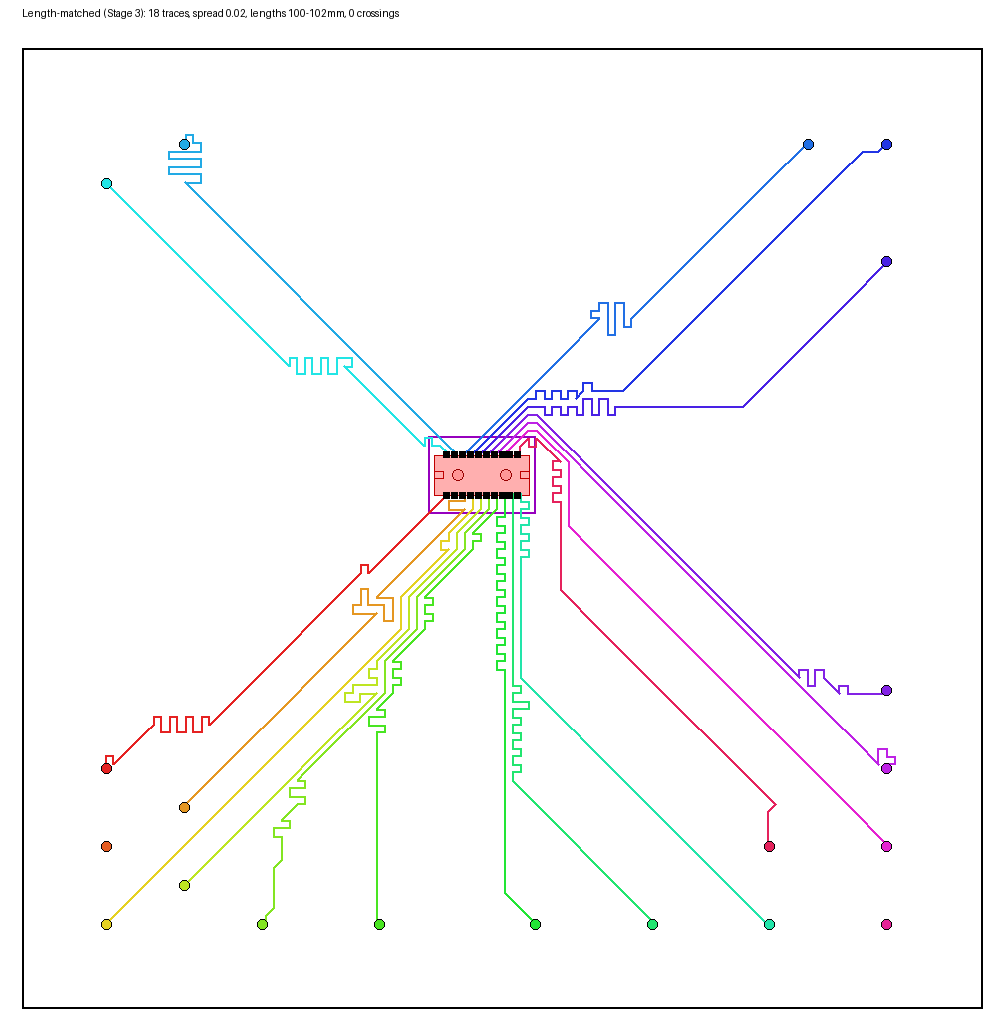
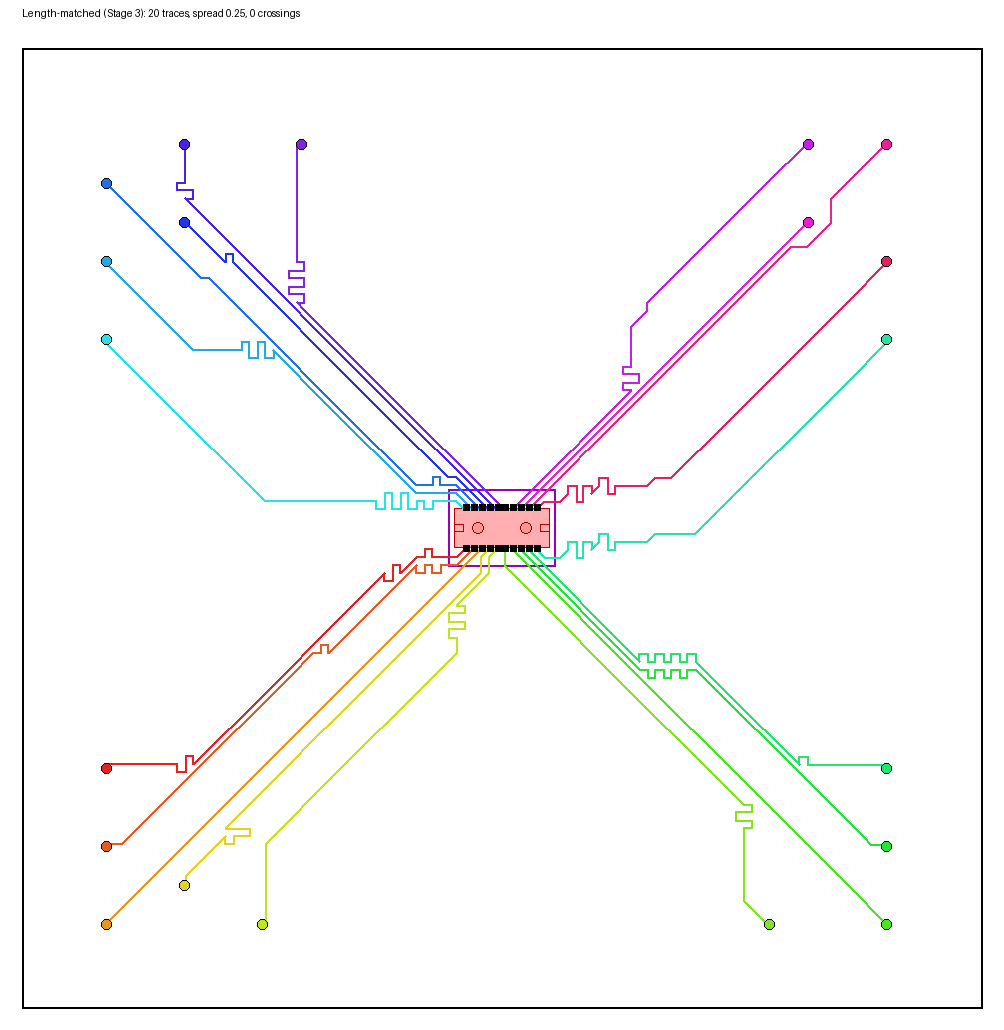
Add test-point (pad) clearance constraints + no self-encirclement
- Pad keep-out: each test point reserves a small disk (TP_CLEARANCE_CELLS) that only
  its OWN net may enter, threaded through the router via a tp_owner grid — so every pad
  stays clear of all other traces' bodies and other pads (measured min pad-to-other-trace
  ~2.97mm vs the ~1.3mm trace pitch; tunable). Start/escape cells are exempt.
- No self-encirclement: the Stage-3 meander refuses bumps within a few cells of either
  endpoint, so a trace never surrounds its own pad with its own body.
- validate_routing_constraints now reports tp_to_trace_min.
- Verified: 20-trace planar routing still 0 crossings, 0 fails, pad clearance 2.97mm.
- Test test_pad_keepout_from_other_traces (14 total); figures + ROUTING.md updated.

diff --git a/envs/routing.py b/envs/routing.py
@@ -269,11 +269,13 @@ def _diag_key(r, c, nr, nc):
 
 
 def _astar_cost(blocked, cell_cost, diag_present, diag_hist, rows, cols, start, end,
-                present_penalty):
+                present_penalty, tp_owner=None, net_id=-1):
     """Octilinear A* on a (row, col) grid. `blocked` hard-blocks cells; `cell_cost`
     adds per-cell congestion; a diagonal move additionally pays for crossing the
-    complementary diagonal of its unit square (discouraging X-crossings). Uses an
-    octile heuristic. Returns a list of (row, col) cells, or None."""
+    complementary diagonal of its unit square (discouraging X-crossings). If
+    `tp_owner` is given, a cell inside another net's test-point keep-out is blocked
+    — a net may enter only its own pad's keep-out. Octile heuristic; returns cells
+    or None."""
     g = {start: 0.0}
     came = {}
     pq = [(0.0, start)]
@@ -295,6 +297,8 @@ def _astar_cost(blocked, cell_cost, diag_present, diag_hist, rows, cols, start, 
             nr, nc = r + dr, c + dc
             if not (0 <= nr < rows and 0 <= nc < cols) or blocked[nr, nc] or (nr, nc) in seen:
                 continue
+            if tp_owner is not None and tp_owner[nr, nc] >= 0 and tp_owner[nr, nc] != net_id:
+                continue                       # keep clear of other nets' test pads
             if dr and dc:
                 if blocked[r, nc] and blocked[nr, c]:
                     continue                       # don't cut the corner between obstacles
@@ -319,7 +323,7 @@ def _astar_cost(blocked, cell_cost, diag_present, diag_hist, rows, cols, start, 
 # ------------------------------------------------------------------
 
 def _negotiate(blocked, rows, cols, cells, endpoints, order,
-               max_iters, present_penalty, history_inc):
+               max_iters, present_penalty, history_inc, tp_owner=None):
     """One negotiated rip-up-and-reroute run, processing nets in `order`.
 
     Nets may share cells (and complementary diagonals) provisionally at a penalty;
@@ -344,7 +348,7 @@ def _negotiate(blocked, rows, cols, cells, endpoints, order,
                     diag_present[key] -= 1
             cost = history + present_penalty * present
             p = _astar_cost(blocked, cost, diag_present, diag_hist, rows, cols,
-                            cells[i][0], cells[i][1], present_penalty)
+                            cells[i][0], cells[i][1], present_penalty, tp_owner, i)
             routes[i] = p
             net_diags[i] = []
             if p:
@@ -483,6 +487,26 @@ def route_all_traces(
         endpoints.add(s)
         endpoints.add(e)
 
+    # Test-point keep-out: each pad reserves a small disk that OTHER nets may not
+    # enter (endpoint-to-other-trace-body and endpoint-to-endpoint clearance); a net
+    # may enter only its own pad's disk. Pads are >=13mm apart so disks never
+    # overlap. Start/escape cells are exempt so a trace's escape is never boxed in.
+    tp_owner = -np.ones((rows, cols), dtype=np.int32)
+    rad = TP_CLEARANCE_CELLS
+    for i, (_s, (er, ec)) in enumerate(cells):
+        for dr in range(-rad, rad + 1):
+            for dc in range(-rad, rad + 1):
+                if dr * dr + dc * dc <= rad * rad:
+                    rr, cc = er + dr, ec + dc
+                    if 0 <= rr < rows and 0 <= cc < cols:
+                        tp_owner[rr, cc] = i
+    for (sr, sc), _e in cells:
+        step_dir = 1 if sr > crow else -1
+        for j in range(6):
+            rr = sr + step_dir * j
+            if 0 <= rr < rows:
+                tp_owner[rr, sc] = -1
+
     # Multi-start: informed orders first, then deterministic random restarts. Each
     # run is negotiated, then any residual crossing is removed (planar guarantee);
     # keep the routing with the fewest dropped nets, early-exit on a full routing.
@@ -497,7 +521,7 @@ def route_all_traces(
     for k in range(max(1, n_starts)):
         order = informed[k] if k < len(informed) else list(rng.permutation(n))
         routes = _negotiate(blocked, rows, cols, cells, endpoints, order,
-                            max_iters, present_penalty, history_inc)
+                            max_iters, present_penalty, history_inc, tp_owner)
         routes = _remove_crossings(routes, cells, rows, cols, grid)
         fails = sum(1 for rt in routes if rt is None)
         if best_fails is None or fails < best_fails:
@@ -579,12 +603,20 @@ def equalize_lengths(board, paths_world, passes=24, tol=1.0):
                 break
             new = [p[0]]
             progressed = False
+            endpt, startpt = p[-1], p[0]
+            keep = TP_CLEARANCE_CELLS + 1        # clean approach; never wrap a pad
             for k in range(len(p) - 1):
                 A, N = p[k], p[k + 1]
                 dr, dc = N[0] - A[0], N[1] - A[1]
-                # Insert a bump only while we still need length (stop at target —
-                # each bump adds exactly 2 cells, so we never overshoot by >1 bump).
-                if added_total < need - tol and (dr == 0) != (dc == 0):
+                near_end = (max(abs(A[0] - endpt[0]), abs(A[1] - endpt[1])) <= keep or
+                            max(abs(N[0] - endpt[0]), abs(N[1] - endpt[1])) <= keep or
+                            max(abs(A[0] - startpt[0]), abs(A[1] - startpt[1])) <= keep or
+                            max(abs(N[0] - startpt[0]), abs(N[1] - startpt[1])) <= keep)
+                # Insert a bump only while we still need length (stop at target — each
+                # bump adds exactly 2 cells, so we never overshoot by >1 bump) and
+                # never within `keep` cells of an endpoint, so a trace never
+                # surrounds its own pad (or its start) with its own body.
+                if added_total < need - tol and (dr == 0) != (dc == 0) and not near_end:
                     perps = [(1, 0), (-1, 0)] if dr == 0 else [(0, 1), (0, -1)]
                     for pr, pc in perps:
                         B = (A[0] + pr, A[1] + pc)
@@ -711,7 +743,22 @@ def validate_routing_constraints(
                                    f"Traces {vi[a]},{vi[b]}: edge dist {mee:.3f}mm"))
 
     crossings = count_crossings(paths)
+
+    # Test-point (pad) to other-trace-body clearance: each pad should stay clear of
+    # every trace except its own (the pad keep-out the router enforces).
+    tp2trace_min = float('inf')
+    for i, pi in enumerate(paths):
+        if not pi:
+            continue
+        tp = np.asarray(pi[-1])
+        for j, pj in enumerate(paths):
+            if pj is None or j == i:
+                continue
+            arr = np.asarray(pj)
+            tp2trace_min = min(tp2trace_min,
+                               float(np.hypot(arr[:, 0] - tp[0], arr[:, 1] - tp[1]).min()))
+
     return {"violations": violations, "trace_to_trace_min": t2t_min,
             "trace_to_edge_min": t2e_min, "trace_to_obstacle_min": t2o_min,
-            "crossings": crossings,
+            "crossings": crossings, "tp_to_trace_min": tp2trace_min,
             "all_valid": len(violations) == 0 and crossings == 0}

diff --git a/test_pcb.py b/test_pcb.py
@@ -146,6 +146,28 @@ def test_training_env_wrapper_chain():
     assert "reward_components" in info
 
 
+def test_pad_keepout_from_other_traces():
+    """Each test pad keeps a keep-out clear of every OTHER trace's body (endpoint-
+    to-other-trace-body clearance), well beyond the 1-cell trace-to-trace minimum."""
+    from envs.routing import validate_routing_constraints, CELL_SIZE
+    b = load_te_example(num_traces=16, seed=1)
+    c, rc = generate_candidate_grid(b, 6.5); c = c[:rc]
+    ccx = b.connector_x + b.connector_w / 2; ccy = b.connector_y + b.connector_h / 2
+    chosen = []
+    for idx in np.argsort(-np.hypot(c[:, 0] - ccx, c[:, 1] - ccy)):
+        if len(chosen) >= 16: break
+        if check_tp_spacing(chosen, *c[idx]): chosen.append(tuple(c[idx]))
+    tps = sorted(chosen, key=lambda p: np.arctan2(p[1] - ccy, p[0] - ccx))
+    pins = sorted(range(16), key=lambda i: np.arctan2(b.traces[i].start_y - ccy,
+                                                      b.traces[i].start_x - ccx))
+    placed = [None] * 16
+    for k, i in enumerate(pins):
+        placed[i] = tps[k]
+    paths, _, _ = route_all_traces(b, placed)
+    v = validate_routing_constraints(b, paths)
+    assert v["tp_to_trace_min"] >= 1.5 * CELL_SIZE   # pad keep-out (> 1 cell)
+
+
 def test_length_matching_is_crossing_safe_and_equalizes():
     """Stage 3 (equalize_lengths) meanders shorter traces toward the longest
     without ever introducing a crossing, and does not worsen length spread."""

diff --git a/ROUTING.md b/ROUTING.md
@@ -105,6 +105,15 @@ job; the router guarantees a legal planar result or drops the offending nets. (4
 is ~25 % shorter than pure-rectilinear; the remaining length is recovered by
 placement quality, not by letting traces cross.)
 
+### 2.6 Endpoint (pad) clearance & no self-encirclement
+Each test point is a pad, not just a trace end, so the router reserves a small
+keep-out disk (radius `TP_CLEARANCE_CELLS`) around every pad that **only that pad's
+own net may enter** — keeping every pad clear of all *other* traces' bodies and of
+other pads (measured min pad-to-other-trace ≈ **3 mm** vs the ~1.3 mm trace pitch;
+tunable). `validate_routing_constraints` reports `tp_to_trace_min`. The Stage-3
+meander also refuses to add bumps within a few cells of either endpoint, so **a
+trace never surrounds its own pad** with its own body.
+
 *Tradeoff:* multi-start costs ~`n_starts`× A* runs. It's tunable
 (`route_all_traces(..., n_starts=)`); training can use a small value and
 evaluation a larger one.